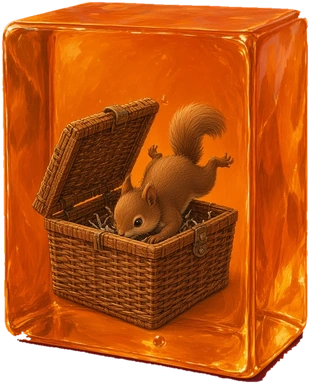
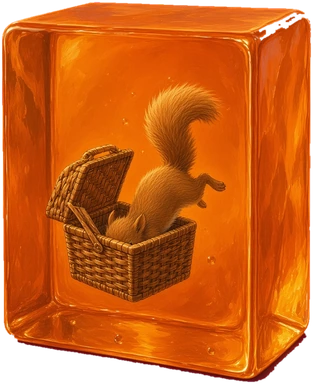
ch6s2g: install new orange block
Claude-Session: https://claude.ai/code/session_01RXeukGUAvWb2DR8PbQkkDC

diff --git a/docs/CHANGES.md b/docs/CHANGES.md
@@ -66,6 +66,10 @@ Tom's Voice Library export of 2026-11-14 14:10 held 7 clips, all live chapter 2 
 - Voice Library: tools/voice-library/scripts/ch07-story-directions.json, 232 lines (208 new, 24 reworded) with a direction each, plus matching rows in harvest.json (src `scene:ch7...`, `dep:7:...`, `arr:7:tom`). Page uses her current voice (pagew). data/dialog-cast.js: two speaker labels added so the lines have a voice: "A dry old voice" (the Unread's voice, log) and "A picture book" (a tiny voice, the Mudling voice, because no new voices can be made). Index rebuilt. No baked clip edited; the 24 reworded lines stay silent until re-recorded. "That was UNCALLED for!" already has a clip and was left out.
 - No engine or scene code changed. Tested: validate.js OK, unused_voice.py unchanged (check 4 stays at its 52 from earlier work, same list with and without this change).
 
+## ch6s2g (2026-11-14): The new orange block (small basket, squirrel diving in) is installed on the Old Oak Park table
+
+Tom approved `ch6-orange-block` v3 ("it looks good. Let's implement it"). Baked to `art/props/oakpark/ch6_block.webp` by `bake_blockbreak_ch6.py`; the freed basket (50 art px) now matches the basket inside the block.
+
 ## unread1 (2026-11-14): Art Library: the Unread boss sheet prompt rewritten short, two eyes, back in To do
 
 Tom: "the boss enemy animation is just totally wrong. You need to simplify it completely ... copy the referenced image ... as closely as possible against the magenta background ... don't say one eye ... say two eyes." Entry `ch7-unread-boss` now has one reference (the approved Unread, `enemy-unread-v2`) and a short prompt: copy it closely, magenta #FF00FF, six poses with two eyes each (pose 1: left eye shut, right eye open). The old v1 picture stays on file; the entry is marked rejected so it shows in To do. Nothing in the game uses it yet.
